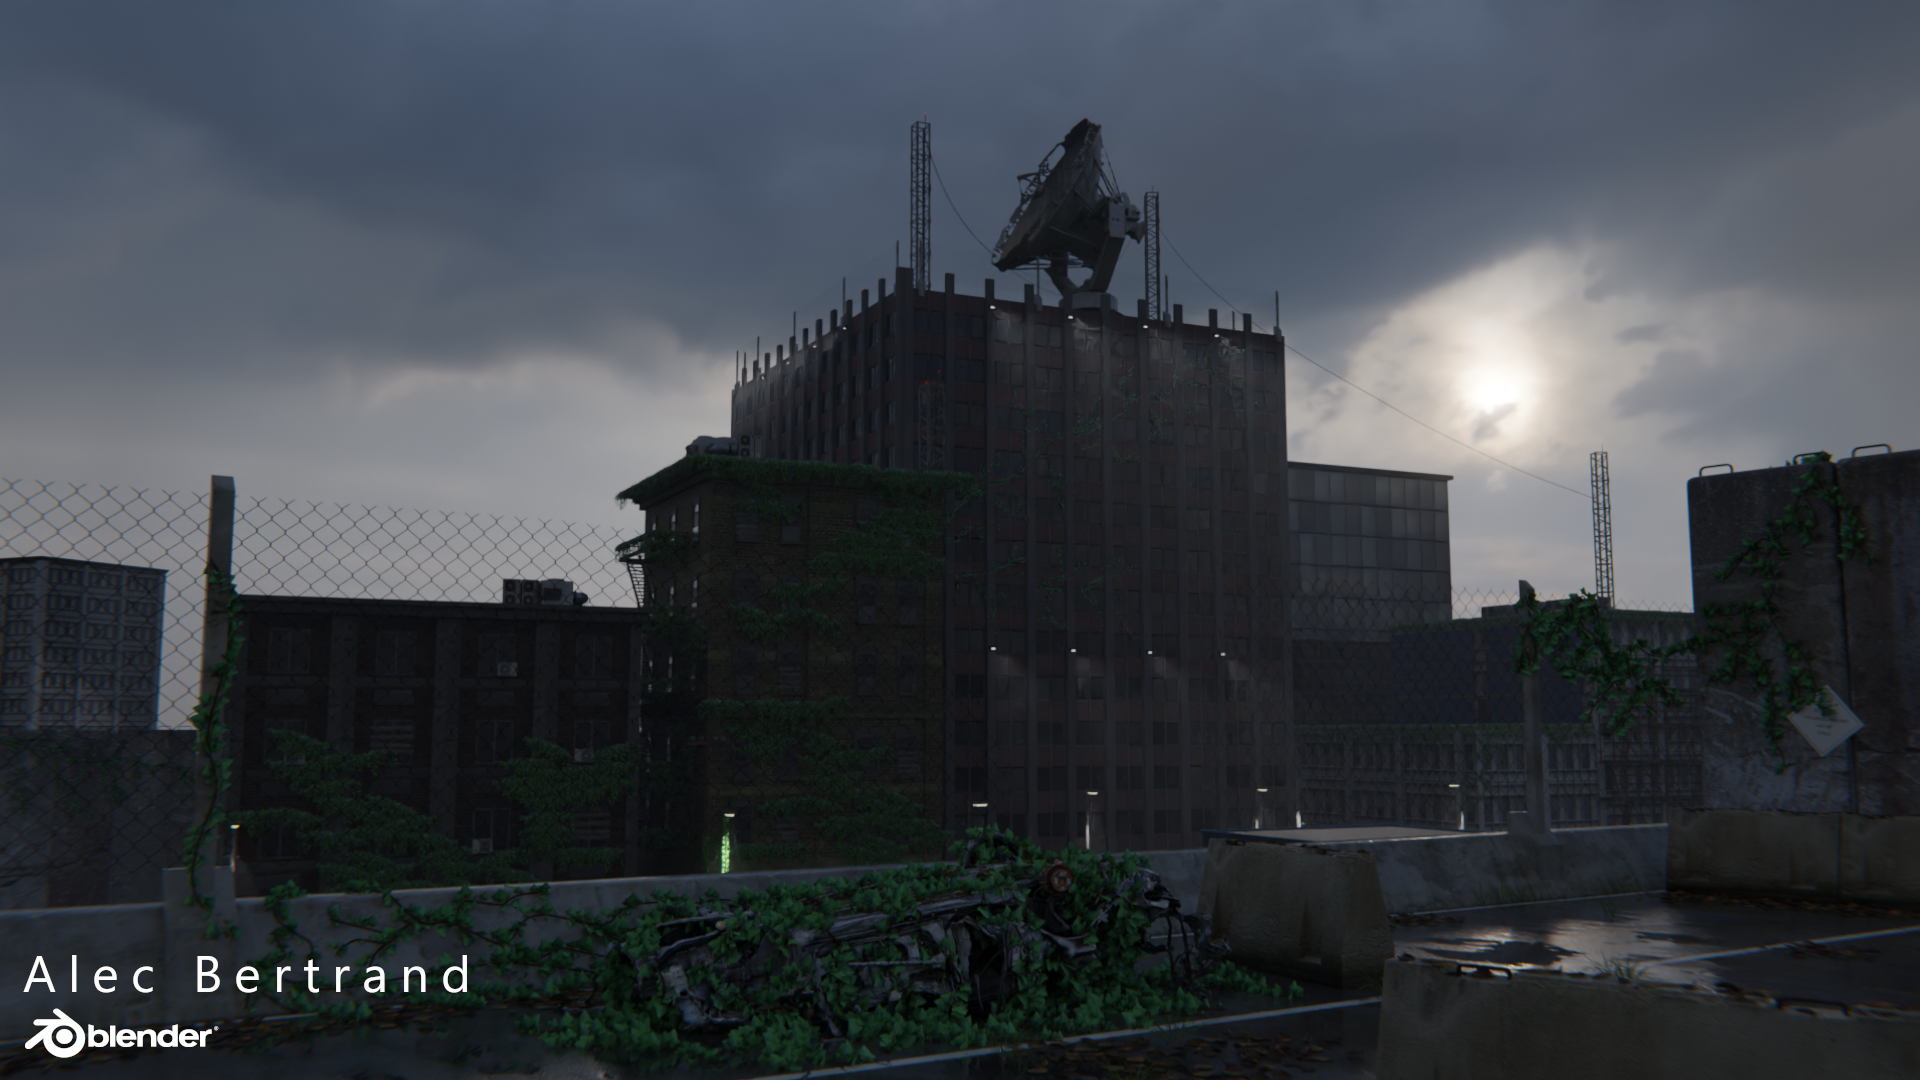
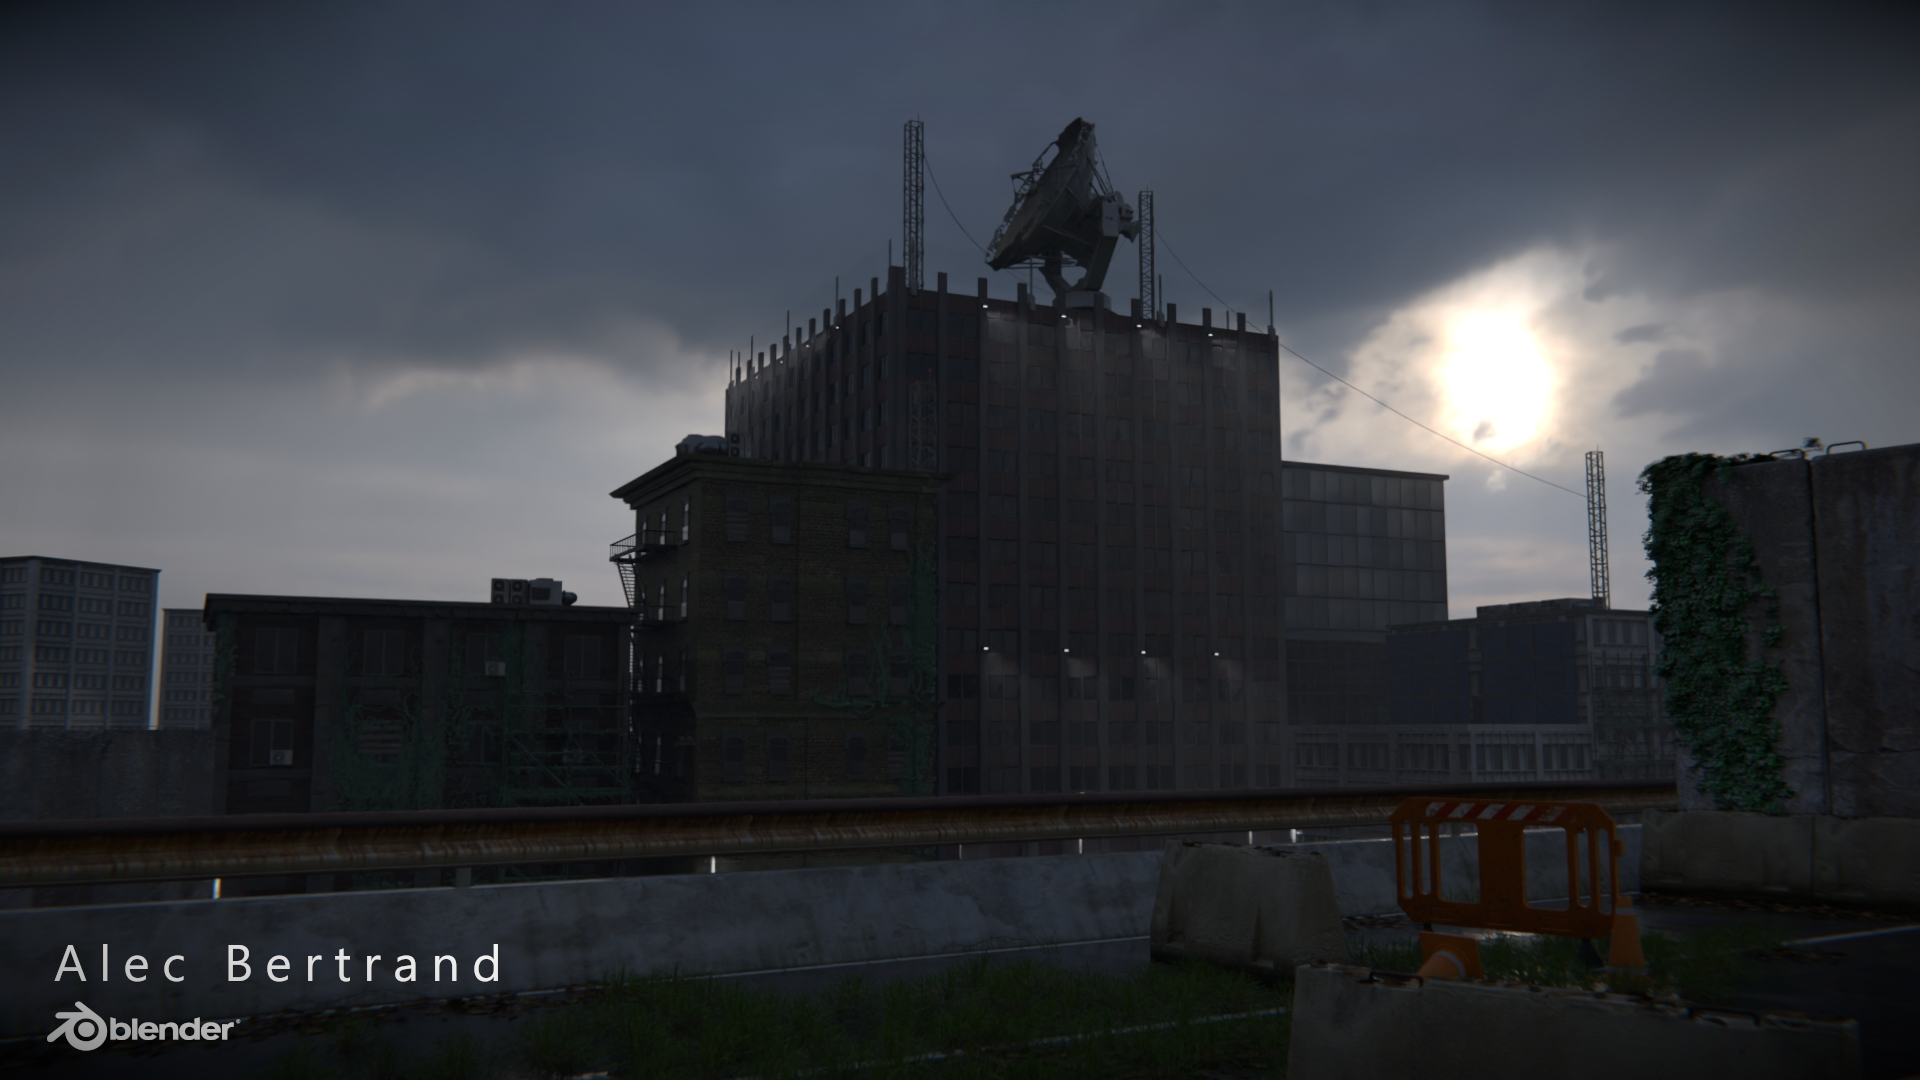
updt

diff --git a/index.html b/index.html
@@ -78,7 +78,7 @@
 
             <div class="slider">
                 <img class="mySlides2" src="Images/buildings6.png">
-                <img class="mySlides2" src="Images/buildings6.png">
+                <img class="mySlides2" src="Images/Capture.PNG">
                 <div class="btns-slider">
                     <!-- <button class="btn-left" onclick="plusDivs(-1, 1)">Render</button> -->
                     <button class="btn-right" onclick="plusDivs(1, 1)">Alternate view</button>
